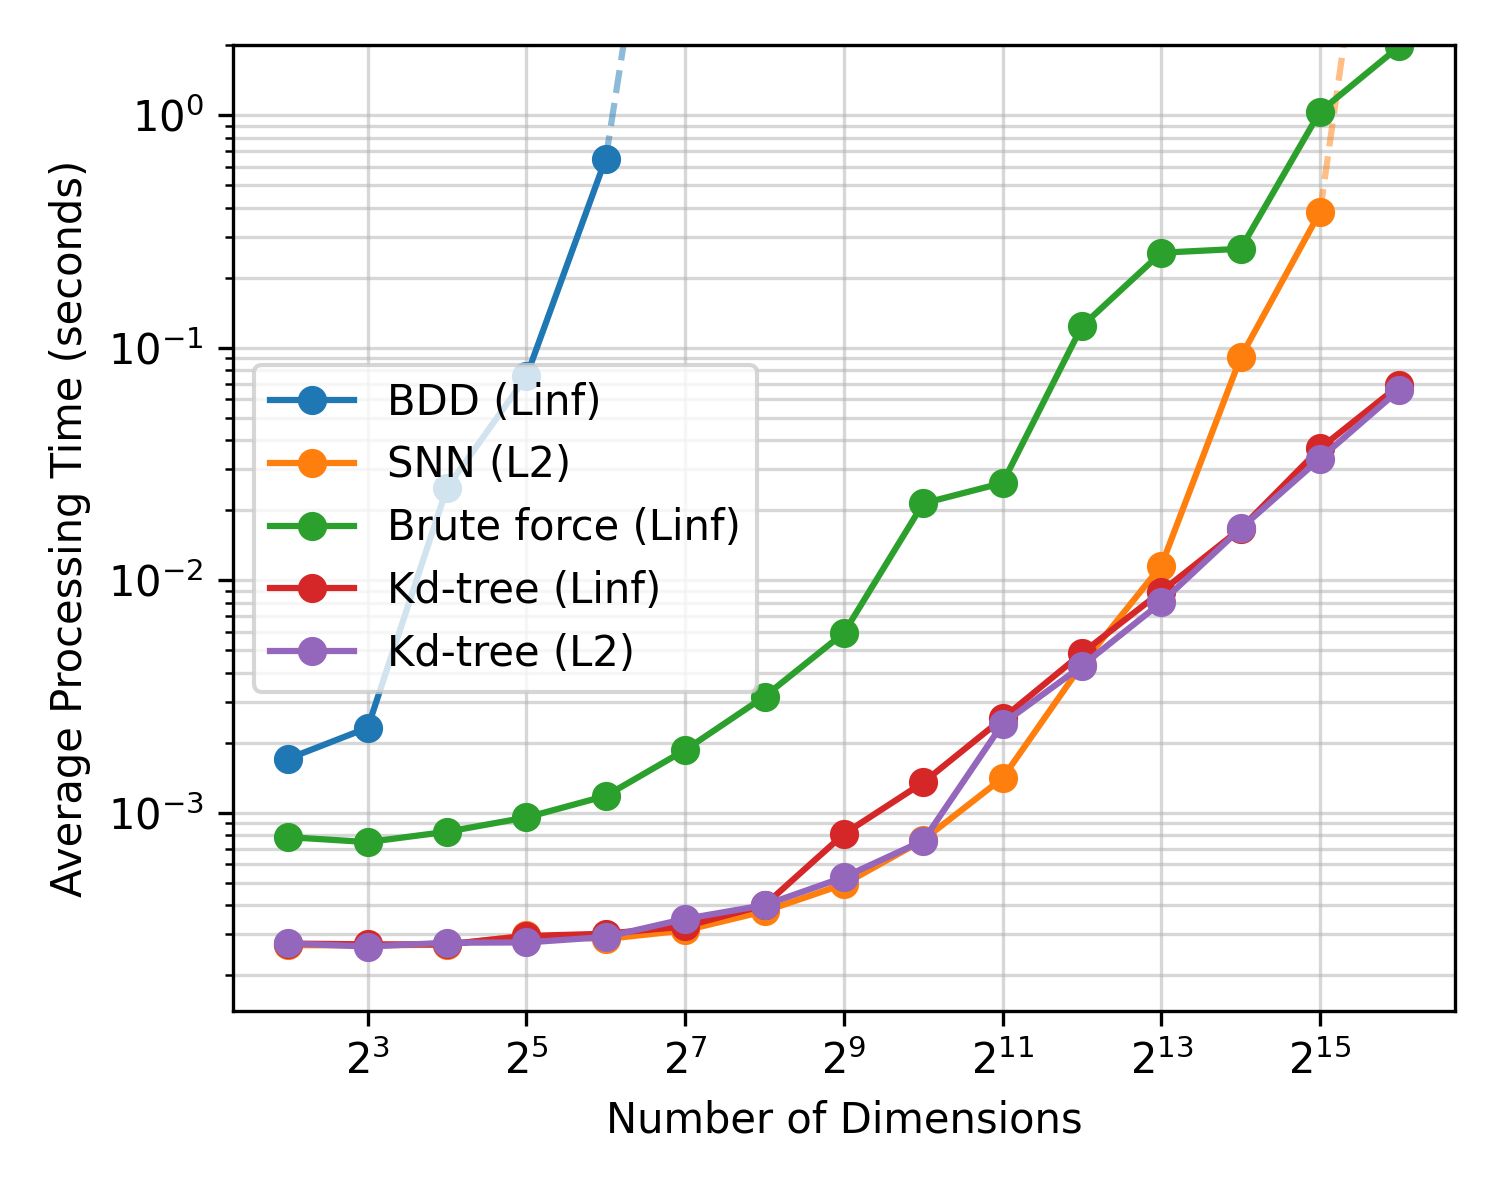
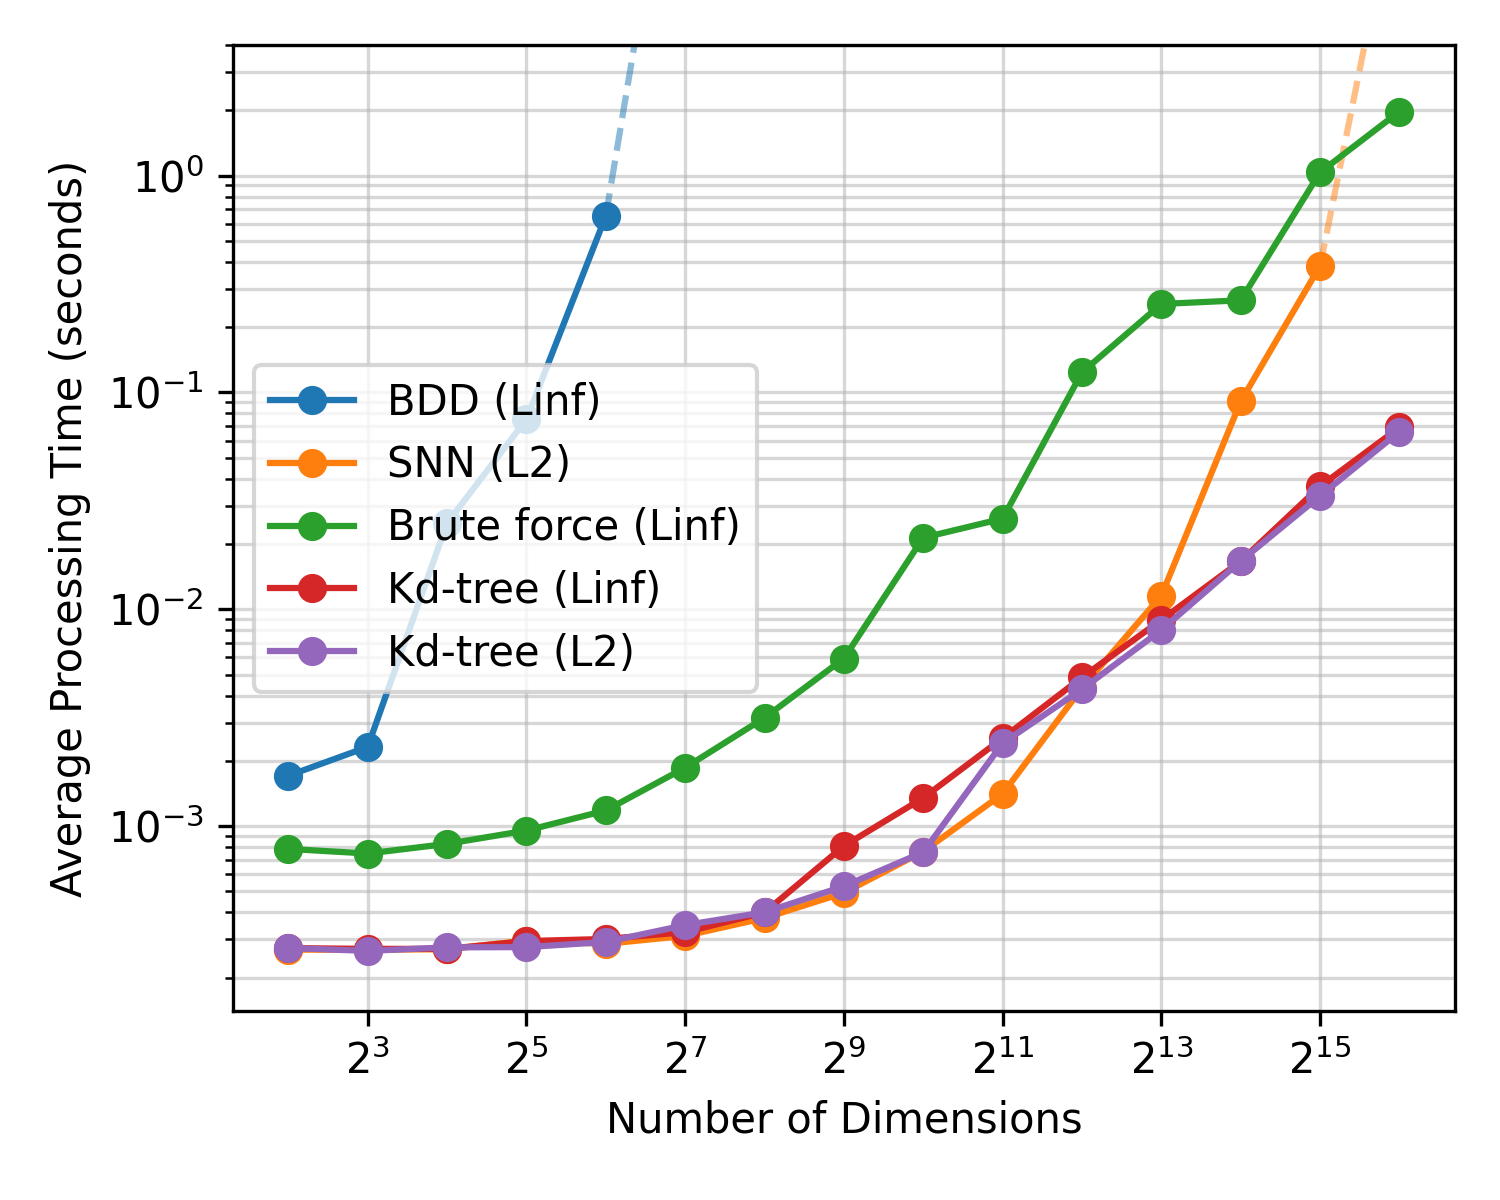
SNAPSHOT: dimcomp with dashes

Changed region(s): [[0.0613, 0.0308, 0.9813, 0.8325]]

diff --git a/results/dimcomp/plot.py b/results/dimcomp/plot.py
@@ -49,11 +49,11 @@ for method in methods:
     if method == 'bdd':
         plt.plot([2**6, 2**7], [avg_times[-1], 100], color='#1f77b4', linestyle='--', alpha=0.5)
     if method == 'l2-snn':
-        plt.plot([2**15, 2**16], [avg_times[-1], 100], color='#ff7f0e', linestyle='--', alpha=0.5)
+        plt.plot([2**15, 2**16], [avg_times[-1], 25], color='#ff7f0e', linestyle='--', alpha=0.5)
 
 plt.xscale('log', base=2)
 plt.yscale('log')
-plt.ylim(top=2)
+plt.ylim(top=4)
 plt.xlabel('Number of Dimensions')
 plt.ylabel('Average Processing Time (seconds)')
 #plt.title('Processing Time vs Dimensions by Method')
